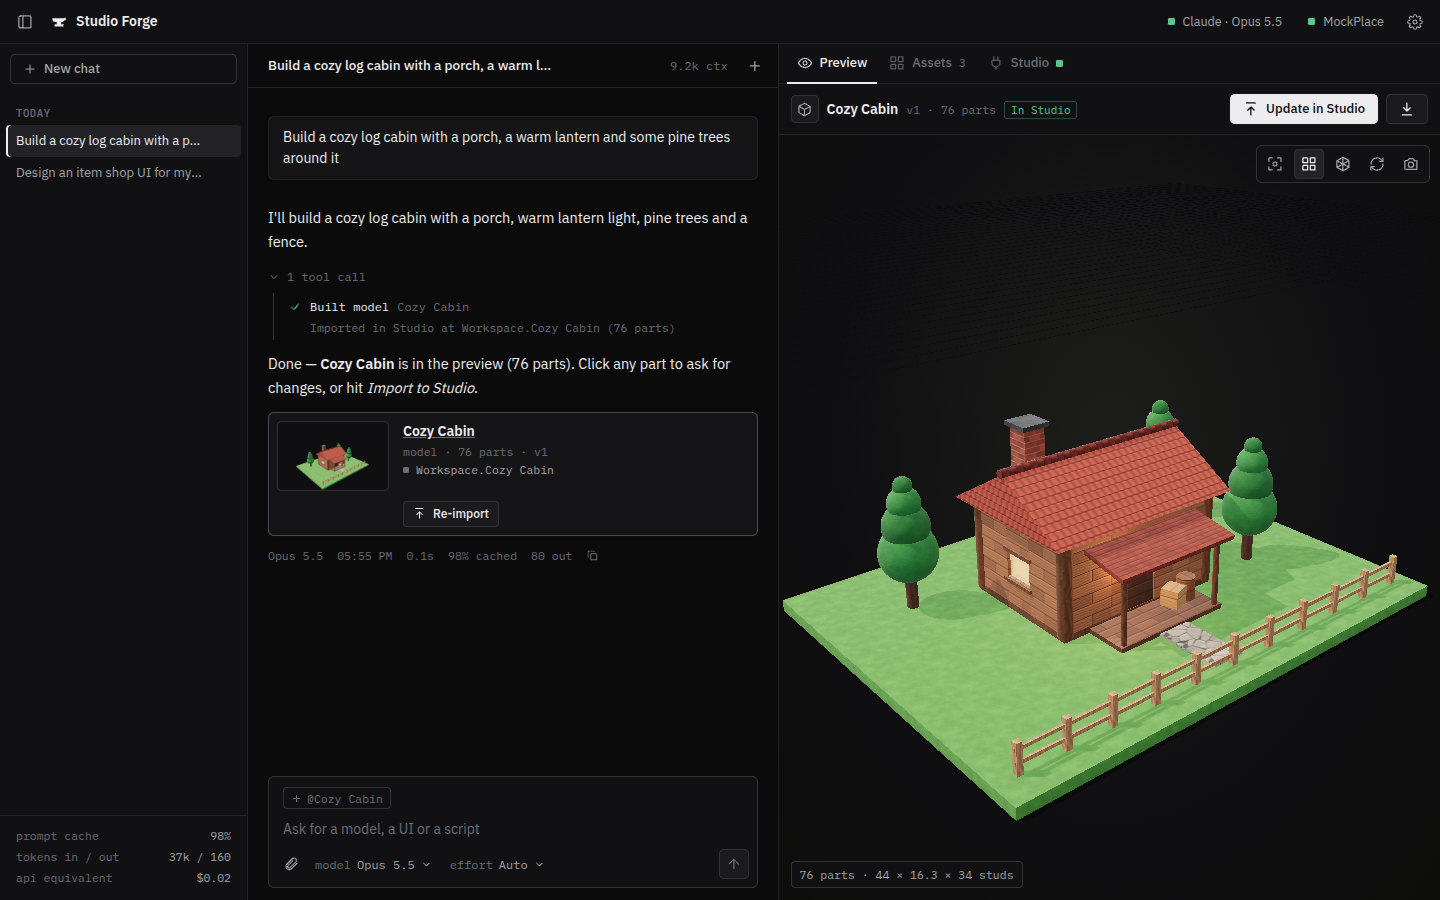
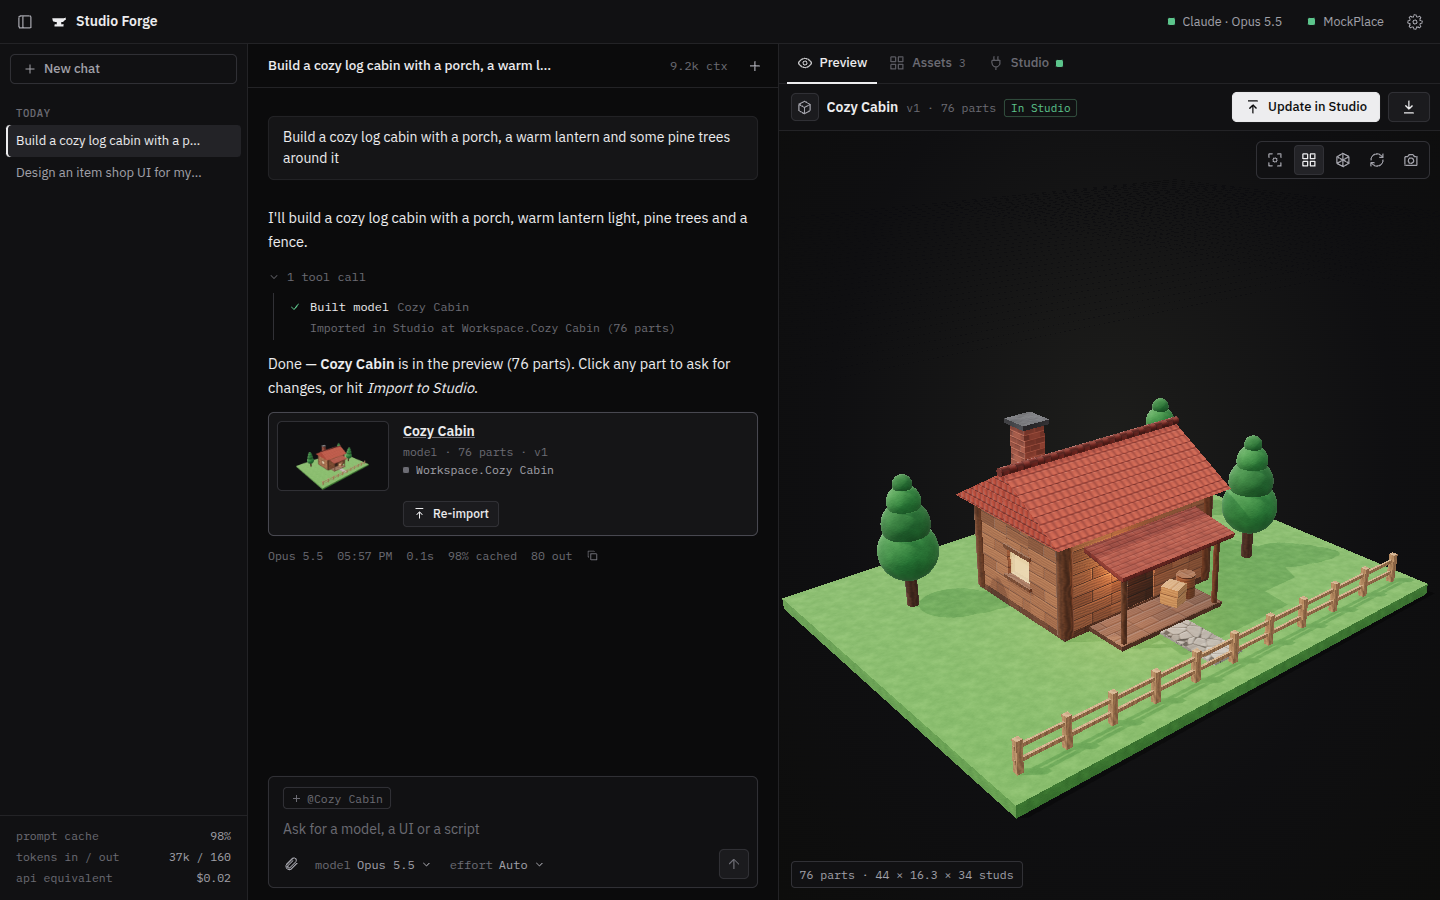
Polish: phone preview header, inspector values, "/" shortcut
- The preview header stays on one row in narrow panels (short "Import"
  label, sub-info hidden) instead of wrapping and truncating the name.
- Part inspector values use the mono face with tabular numbers.
- "/" outside a text field focuses the composer.
- Tighter model thumbnails (fit to the projected bounding box).
- Sidebar shows "–" for cache hits before any usage; plainer empty
  preview copy.

Claude-Session: https://claude.ai/code/session_01WjEENrEnSZMmRdYKCsGoF3

diff --git a/src/web/styles.css b/src/web/styles.css
@@ -1499,6 +1499,7 @@ button.ctx-chip:hover {
   flex-direction: column;
   min-height: 0;
   min-width: 0;
+  container: panel / inline-size;
   border-left: 1px solid var(--border);
   background: var(--panel);
 }
@@ -1551,10 +1552,26 @@ button.ctx-chip:hover {
   display: flex;
   align-items: center;
   gap: 8px;
-  padding: 10px 12px;
+  padding: 8px 10px 8px 12px;
   border-bottom: 1px solid var(--border);
   min-width: 0;
-  flex-wrap: wrap;
+}
+.asset-bar > .btn,
+.asset-bar > .dropdown {
+  flex: none;
+}
+.asset-bar .short {
+  display: none;
+}
+@container panel (max-width: 560px) {
+  .asset-bar .long,
+  .asset-bar .sub,
+  .asset-bar .badge {
+    display: none;
+  }
+  .asset-bar .short {
+    display: inline;
+  }
 }
 .asset-bar .name {
   font-weight: 600;
@@ -1569,7 +1586,7 @@ button.ctx-chip:hover {
   white-space: nowrap;
 }
 .asset-bar .grow {
-  flex: 1 1 160px;
+  flex: 1 1 auto;
   min-width: 0;
   display: flex;
   align-items: baseline;
@@ -1605,9 +1622,13 @@ button.ctx-chip:hover {
   padding: 24px;
 }
 .stage-empty .big {
-  font-size: 15px;
+  font-size: 14px;
+  font-weight: 500;
   color: var(--text-dim);
   margin-bottom: 4px;
+}
+.stage-empty .big + div {
+  font: 12px var(--mono);
 }
 
 .viewer-canvas {
@@ -1680,8 +1701,9 @@ button.ctx-chip:hover {
 }
 .part-card .row b {
   color: var(--text);
-  font-weight: 500;
+  font: 11.5px/1.6 var(--mono);
   text-align: right;
+  font-variant-numeric: tabular-nums;
 }
 .swatch {
   display: inline-block;

diff --git a/src/web/components/RightPanel.tsx b/src/web/components/RightPanel.tsx
@@ -63,7 +63,7 @@ function PreviewPane() {
         <div className="stage-empty">
           <div>
             <div className="big">Nothing to preview yet</div>
-            <div>Ask Claude for a model or UI — it appears here instantly and can be sent to Roblox Studio in one click.</div>
+            <div>Models, UIs and scripts open here as soon as Claude makes them.</div>
           </div>
         </div>
       </div>
@@ -132,7 +132,9 @@ function AssetBar({ asset }: { asset: AssetSummary }) {
         title={ready ? "Import into the open Roblox Studio place" : "Connect Roblox Studio first (Studio tab)"}
         onClick={() => (ready ? importAsset(asset.id) : (setRightTab("studio"), toast("Connect Roblox Studio first.", "info")))}
       >
-        <Icon name={importing ? "refresh" : "upload"} /> {importing ? "Importing…" : asset.lastImport ? "Update in Studio" : "Import to Studio"}
+        {importing ? <span className="spinner" /> : <Icon name="upload" />}{" "}
+        <span className="long">{importing ? "Importing…" : asset.lastImport ? "Update in Studio" : "Import to Studio"}</span>
+        <span className="short">{importing ? "Importing…" : asset.lastImport ? "Update" : "Import"}</span>
       </button>
       {asset.kind === "ui" && (
         <a className="btn" href={`/?render=${asset.id}`} target="_blank" rel="noreferrer" title="Open full size in a new tab">

diff --git a/src/web/components/Chat.tsx b/src/web/components/Chat.tsx
@@ -781,6 +781,20 @@ function Composer({ convId, running, dropped, lastUserText, children }: {
     if (attached && !attachedAsset) setAttached(null);
   }, [attached, attachedAsset]);
 
+  // "/" anywhere outside a text field jumps to the composer.
+  useEffect(() => {
+    const onKey = (e: KeyboardEvent) => {
+      if (e.key !== "/" || e.ctrlKey || e.metaKey || e.altKey) return;
+      const t = e.target as HTMLElement | null;
+      if (t && (t.isContentEditable || /^(INPUT|TEXTAREA|SELECT)$/.test(t.tagName))) return;
+      if (document.querySelector(".modal-backdrop")) return;
+      e.preventDefault();
+      focusEnd();
+    };
+    window.addEventListener("keydown", onKey);
+    return () => window.removeEventListener("keydown", onKey);
+  }, []);
+
   function focusEnd() {
     requestAnimationFrame(() => {
       const el = ref.current;

diff --git a/src/web/components/Shell.tsx b/src/web/components/Shell.tsx
@@ -64,6 +64,7 @@ export function Sidebar() {
     return t;
   }, [conversations]);
   const hit = cacheRate(totals);
+  const anyUsage = totals.inputTokens + totals.cacheReadTokens + totals.cacheWriteTokens > 0;
 
   return (
     <aside className="sidebar">
@@ -100,7 +101,7 @@ export function Sidebar() {
         <dl className="usage-stats" title="Totals across all chats. Cost is the API-equivalent price; Claude subscriptions are not billed per token.">
           <div>
             <dt>prompt cache</dt>
-            <dd>{hit}%</dd>
+            <dd>{anyUsage ? `${hit}%` : "–"}</dd>
           </div>
           <div>
             <dt>tokens in / out</dt>
